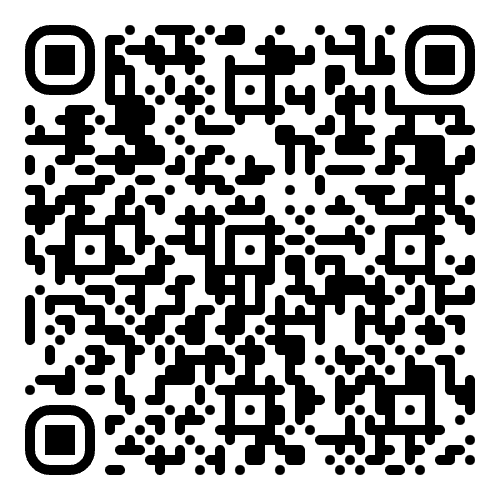
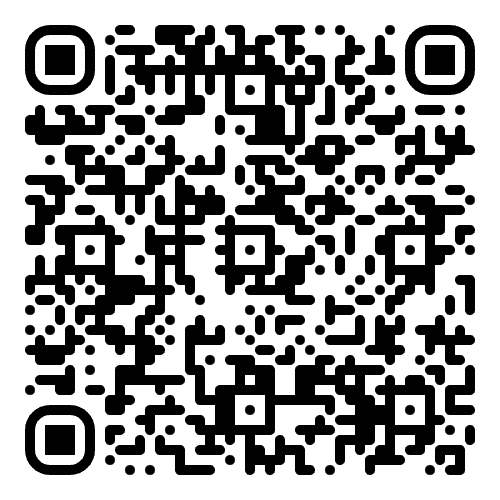
updated resume link

diff --git a/src/pages/Contact.js b/src/pages/Contact.js
@@ -67,7 +67,7 @@ export default function Contact() {
             <div className="method-txt">
               <a
                 target="blank"
-                href="https://acrobat.adobe.com/id/urn:aaid:sc:VA6C2:3a2fadb8-ab94-48b9-aa6f-1b8669e3a0af"
+                href="https://acrobat.adobe.com/id/urn:aaid:sc:VA6C2:b351e508-a401-4e08-a888-65b200464ae1"
               >
                 download resume
               </a>

diff --git a/src/pages/Landing.js b/src/pages/Landing.js
@@ -31,7 +31,7 @@ export default function Landing() {
               Scan to download my{" "}
               <a
                 target="blank"
-                href="https://acrobat.adobe.com/id/urn:aaid:sc:VA6C2:3a2fadb8-ab94-48b9-aa6f-1b8669e3a0af"
+                href="https://acrobat.adobe.com/id/urn:aaid:sc:VA6C2:b351e508-a401-4e08-a888-65b200464ae1"
               >
                 resume
               </a>
